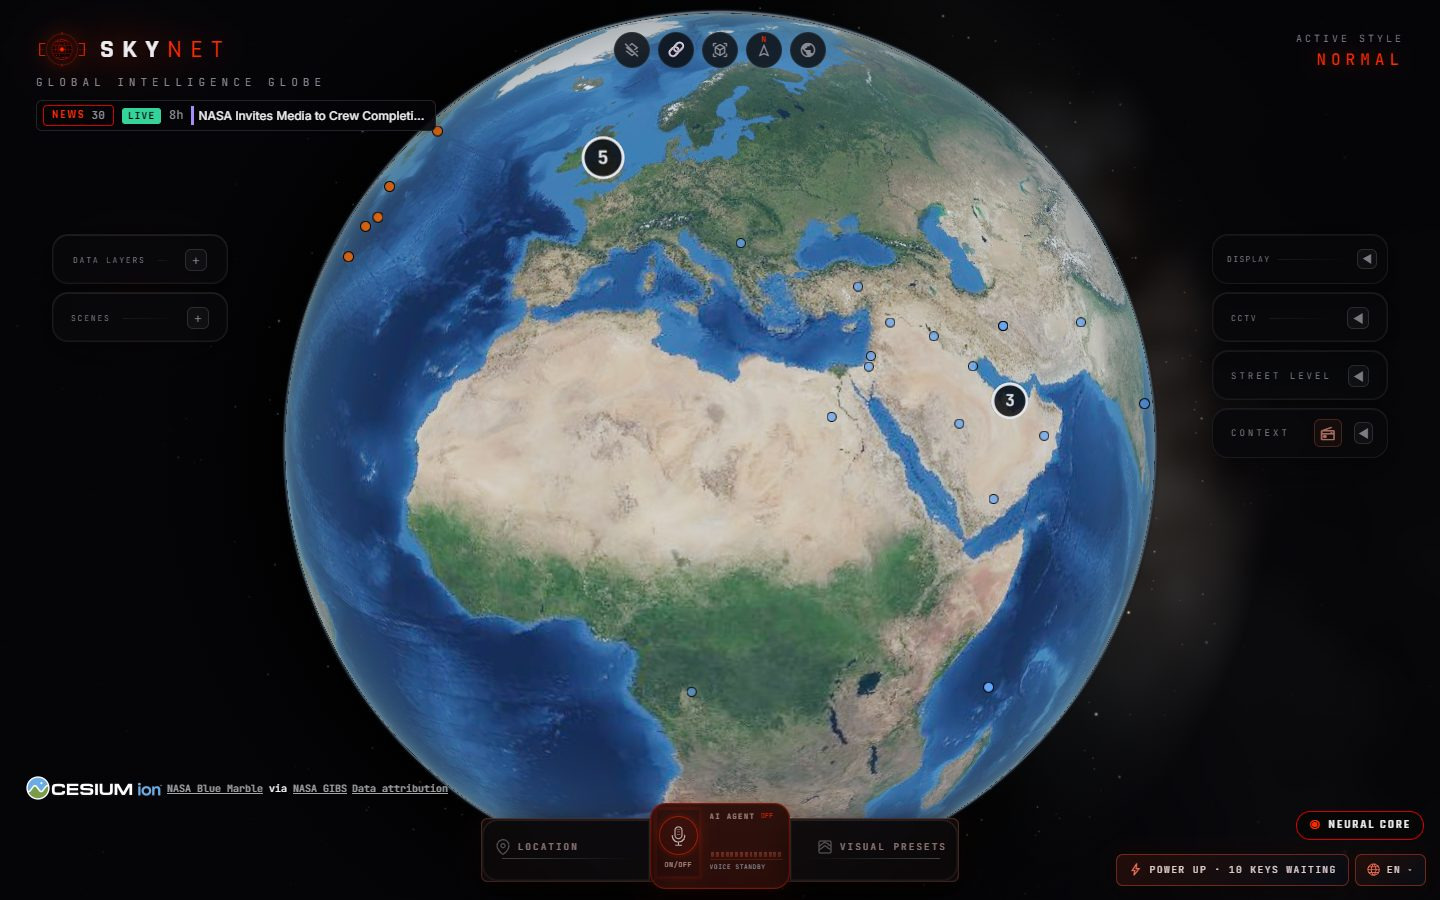
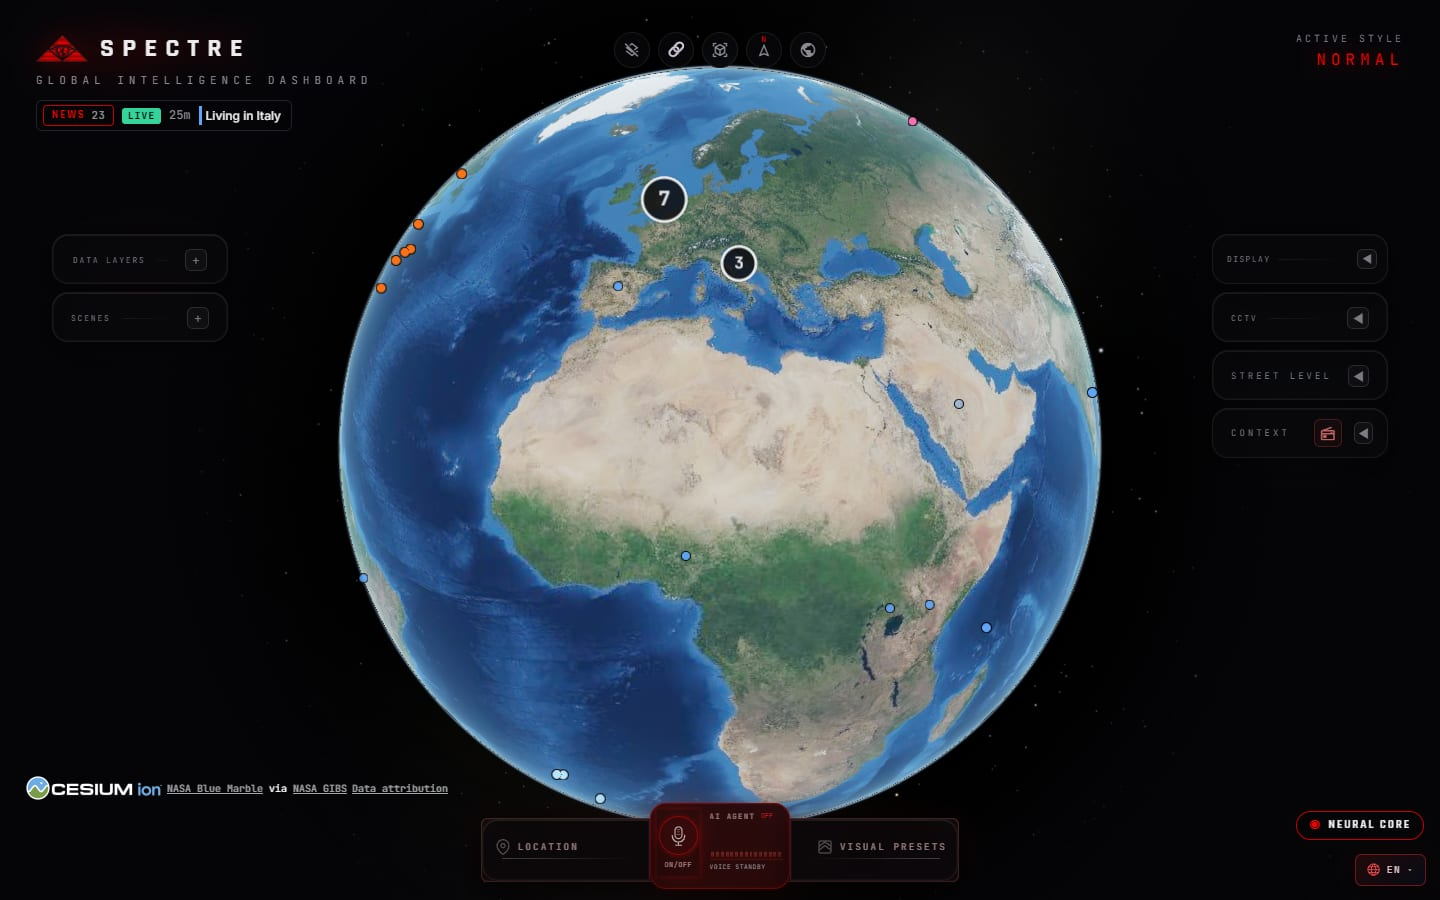
docs: SPECTRE README, branding guide, boot architecture, new screenshots
- README: title "SPECTRE — Global Intelligence Dashboard", the emblem
  header, a rename note (SKYNET until 2026-10-28; old settings and script
  still work for one release), the boot overlay, and new screenshots taken
  from the production build with the real intel service: the globe with News
  and Natural Events on, the boot overlay, and the Neural Core panel (Ollama
  was stopped, and the caption says so). No prediction claims in prose.
- docs/BRANDING.md: asset inventory, dark-background-only rule for the
  luminance-keyed PNGs, minimum sizes (lockup 160 px, mark 24 px), colour
  tokens with measured contrast, glitch and status rules, and a provenance
  section left as a TODO for Murali (creator/tool, date, licence: nothing
  asserted).
- docs/ARCHITECTURE.md: the boot overlay data flow and code map rows.
- .env.example: SKYNET_* names are read for one more release.
- CLAUDE.md: brand assets, the red-on-raised rule, qa:spectre-boot.
- docs/images: the v0.1.0 screenshots docs/VERIFY.md cites are back under
  their recorded names (skynet-*.jpg, byte-identical to the tag); the R1
  rename had moved them.

diff --git a/docs/BRANDING.md b/docs/BRANDING.md
@@ -1,0 +1,100 @@
+# SPECTRE branding
+
+SPECTRE's emblem is a striped red pyramid with an eye whose iris is a globe,
+over the wordmark **SPECTRE**, the subtitle **GLOBAL INTELLIGENCE DASHBOARD**
+and the sub-line **REAL-TIME • ANALYZE • PREDICT • GLOBAL INSIGHTS**.
+
+Every product name, tagline and brand colour the code uses comes from
+[`src/branding.js`](../src/branding.js); this page covers the image files and
+how to use them.
+
+## Files
+
+Served from `public/brand/` (at `/brand/`) unless noted.
+
+| File | Size | Alpha | Used for |
+|---|---|---|---|
+| `spectre-mark.png` | 1065×542 | yes | Boot overlay: the emblem layer; source of the maskable icon |
+| `spectre-wordmark.png` | 1363×146 | yes | Boot overlay: the wordmark layer |
+| `spectre-subtitle.png` | 1355×54 | yes | Boot overlay: the subtitle layer |
+| `spectre-tagline.png` | 1167×38 | yes | Boot overlay: the sub-line layer |
+| `lockup-layout.json` | — | — | Where the four layers sit in the lockup (copied into `src/boot/spectre-boot.js`) |
+| `spectre-mark-512.png` | 512×261 | yes | Old loading screen (`hud-loading.html`) |
+| `spectre-mark-256.png` | 256×130 | yes | Header mark (`scene-chrome.html`), `BRANDING.logo` |
+| `spectre-mark-128.png` | 128×65 | yes | Neural Core panel header |
+| `spectre-logo-alpha.png` | 1363×825 | yes | Full lockup for other dark-background uses (not used by the app) |
+| `favicon.ico`, `favicon-16/32/48.png` | 16–48 | yes | Browser tab: a tight crop of the globe-eye that stays legible when tiny |
+| `apple-touch-icon-180.png` | 180×180 | yes | iOS home screen |
+| `icon-192.png`, `icon-512.png` | 192, 512 | yes | Install manifest |
+| `icon-512-maskable.png` | 512×512 | yes | Install manifest, maskable: generated by `node scripts/generate-icons.mjs` |
+| `spectre-social-1280x640.png` | 1280×640 | no | Open Graph / Twitter card, and the GitHub social preview |
+| `docs/brand/spectre-logo-source.png` | 1672×941 | no | Master, on black. Docs and README only; never in the shipped app (a test checks) |
+
+The four boot layers are tight crops of one lockup, positioned by
+`lockup-layout.json` (aspect 1.65212).
+
+## Rules
+
+- **Dark backgrounds only.** The transparent PNGs are luminance-keyed: they are
+  correct on black or near-black and wrong on anything light. On a light
+  surface (a light-mode GitHub page, a slide, print), use
+  `docs/brand/spectre-logo-source.png`, or the social image, which carry their
+  own black.
+- **Don't recolour, stretch, crop, rotate or outline** the emblem, and don't add
+  drop shadows beyond the faint red glow the header already has.
+- **Minimum sizes:** the full lockup at least 160 px wide; the mark at least
+  24 px wide. Below that, use the favicon crop, which was drawn for small
+  sizes.
+- **Words are text.** The tagline and sub-line in the UI are real, translated
+  text (`BRANDING.tagline`, `BRANDING.subline`), for accessibility and
+  scaling. Only the boot overlay uses the raster subtitle and sub-line, as part
+  of the lockup.
+- **The sub-line is a slogan, not a feature list.** In prose, describe only
+  what exists: satellite pass prediction (SGP4 from orbital elements,
+  `src/data/satellitePass.js`) and forecasts that come from a named source
+  (cyclone tracks, weather). Don't claim SPECTRE predicts events.
+- **The glitch is decoration on logo layers only.** It never touches data,
+  charts, chat text or tables. Alerts keep their own icon, label and pulse and
+  never reuse the glitch classes (`.sp-part`, `.sp-ghost`, `.is-glitch`): red
+  already means both brand and danger.
+- **Status is never colour alone.** Boot rows pair a glyph with a word:
+  `●` ONLINE, `◐` DEGRADED, `✕` OFFLINE / NO RESPONSE.
+
+## Colours
+
+Measured from the emblem; tokens in [`src/theme/spectre.css`](../src/theme/spectre.css)
+and `BRANDING.colors`.
+
+| Token | Value | Use | Contrast on `#000` |
+|---|---|---|---|
+| `--sp-red` | `#F80000` | text, icons, active states | 4.99:1 (AA); 4.67:1 on `--sp-surface` |
+| `--sp-red-on-raised` | `#FF1A1A` | red text on `--sp-surface-2` and on red tints (active controls, the voice dock), where `#F80000` drops to 4.44–4.46:1 | 5.41:1; 4.80:1 on those surfaces |
+| `--sp-red-deep` | `#C80000` | fills and borders only, never small text | 3.46:1; white on it is 6.08:1 |
+| emblem grey | `#C8C8C8` | the wordmark's grey (raster only) | — |
+
+Before the emblem, the reds were `#FF2800` and `#D40000`. To go back, restore
+those two values in `BRANDING.colors` and the three lines marked in
+`src/theme/spectre.css`, then run `node scripts/generate-spectre-recolor.mjs`.
+
+## Boot overlay and brand glitch
+
+[`src/boot/`](../src/boot/) and [`src/theme/spectre-boot.css`](../src/theme/spectre-boot.css):
+the lockup assembles on black with four status rows fed by real checks, then
+removes itself. Settings: Display ▸ Boot animation (Full / Short / Off) and
+Brand glitch (On / Off); `?boot=off|short|full` overrides; embedded views and
+`prefers-reduced-motion` get no motion. Smoke test: `npm run qa:spectre-boot`.
+
+## Provenance
+
+> **TODO (Murali):** fill this in before publishing. Nothing below may be
+> guessed.
+>
+> - Creator, and the tool or service used to make the emblem:
+> - Date created:
+> - Licence or terms for the emblem and its files (and whether others may
+>   reuse them):
+> - Any third-party elements in the artwork (fonts, the world map in the
+>   globe) and their licences:
+
+The MIT licence in [LICENSE](../LICENSE) covers SPECTRE's code. Until this
+section is filled in, it does not say anything about the emblem.

diff --git a/README.md b/README.md
@@ -1,14 +1,16 @@
 <p align="center"><img src="docs/brand/spectre-logo-source.png" alt="SPECTRE: Global Intelligence Dashboard" width="640" /></p>
 
-# SPECTRE
+# SPECTRE — Global Intelligence Dashboard
 
-**A local-first global intelligence globe.** Live flights, satellites, weather, cameras and public data on a 3D Earth, with real-time news intelligence and a local AI analyst, the Neural Core, all running on your own machine with no paid keys required.
+**A local-first global intelligence dashboard.** Live flights, satellites, weather, cameras and public data on a 3D Earth, with real-time news intelligence and a local AI analyst, the Neural Core, all running on your own machine with no paid keys required.
 
 ![SPECTRE on the keyless NASA Blue Marble basemap, with the news and natural-events layers on](docs/images/spectre-globe.jpg)
 
-SPECTRE is a fork of [God's Eye View](https://github.com/bilawalsidhu/gods-eye-view) (MIT, © Bilawal Sidhu), rebranded in a Vanta-black and Ferrari-red theme. It keeps God's Eye View's layers and tools, except where their data could not be redistributed. [NOTICE.md](NOTICE.md) lists every change from upstream.
+SPECTRE is a fork of [God's Eye View](https://github.com/bilawalsidhu/gods-eye-view) (MIT, © Bilawal Sidhu), rebranded with the SPECTRE emblem in black and red. It keeps God's Eye View's layers and tools, except where their data could not be redistributed. [NOTICE.md](NOTICE.md) lists every change from upstream.
 
 > **Status: v0.1.0** (tagged locally as `skynet-v0.1.0`, under the product's earlier name). All six phases of [docs/ADR-001.md](docs/ADR-001.md) are done. What was verified and what was not is in [docs/VERIFY.md](docs/VERIFY.md).
+
+> **Renamed.** SPECTRE was called SKYNET until 2026-10-28. Settings named `SKYNET_*` and `scripts\skynet.ps1` still work for one release, with a warning, and the intel database and tool logs are copied to their new names on the first start. [CHANGELOG.md](CHANGELOG.md) lists every change.
 
 ## What it does
 
@@ -21,7 +23,10 @@ SPECTRE is a fork of [God's Eye View](https://github.com/bilawalsidhu/gods-eye-v
   - **What it refuses.** It will not locate or profile people.
   - **When Ollama is not running,** the panel says so.
 
-  ![The Neural Core answering a news question with numbered sources](docs/images/spectre-neural-core.jpg)
+  ![The Neural Core panel with an earlier answer and its numbered sources; Ollama is stopped here, and the panel says so](docs/images/spectre-neural-core.jpg)
+- **Boot overlay.** While the app loads, the emblem shows four status rows from real checks: the globe's first frame, the layer catalog, the intel service and the Neural Core. Any key or click skips it; Display ▸ Boot animation makes it short or turns it off.
+
+  ![The boot overlay: emblem, wordmark and four status rows](docs/images/spectre-boot.jpg)
 - **Local voice (optional).** Hold the mic in the Neural Core panel and ask. Speech is recognised and spoken on your computer (faster-whisper and Kokoro); the answer is read aloud in English as it arrives.
 
 ## Quick start (Windows 11, PowerShell)
@@ -150,6 +155,7 @@ It is not for navigation, emergency response or any other safety-critical use. D
 - [docs/VERIFY.md](docs/VERIFY.md): manual verification steps and their results.
 - [docs/API.md](docs/API.md): the intel service API.
 - [docs/ADR-001.md](docs/ADR-001.md): the design and its decisions.
+- [docs/BRANDING.md](docs/BRANDING.md): the SPECTRE emblem, its files and how to use them.
 - [CONTRIBUTING.md](CONTRIBUTING.md): how to change SPECTRE.
 - [DATA_SOURCES.md](DATA_SOURCES.md): data sources and their terms.
 - Measurements:

diff --git a/docs/ARCHITECTURE.md b/docs/ARCHITECTURE.md
@@ -79,6 +79,12 @@ Tests on both sides fail when the shared file is stale.
 3. **Speak.** The streamed answer is split into sentences. Each goes to `POST /api/intel/voice/speak` (Kokoro-82M on the CPU), with at most two requests out at once. The WAV is played with Web Audio.
 4. **Load.** The models load once, in the background, when the service starts. They are fetched only by `scripts\spectre.ps1 -Voice`, checked against pinned SHA-256 hashes.
 
+### Boot overlay
+
+1. **First paint.** `index.html` paints black with a cover; `src/boot/entry.js` runs before `src/main.js` and swaps the cover for the overlay. In a build, `build/spectreBootHtml.js` gives the entry its own small chunk ahead of a deferred `Cesium.js`, so the overlay is up in about 140 ms instead of after Cesium.
+2. **Rows.** The entry probes `GET /api/intel/health` and `GET /api/intel/chat/status`; the application reports the globe (the viewer's first frame and the map stack's basemap) and the layer catalog through `src/boot/appSignals.js`. Each probe gives up after 3 s and a late reply still updates its row.
+3. **Exit.** Once every row has a state (or 9 s have passed) and the minimum hold is over, the overlay fades and is removed from the DOM. It never delays the application, which starts behind it.
+
 ## Trust boundaries
 
 | Boundary | Guard |
@@ -125,6 +131,7 @@ SPECTRE keeps its own code apart so that `git merge upstream/main` stays tractab
 | News and Natural Events layers | `src/layers/news/`, `src/layers/eonet/` |
 | Neural Core panel | `src/neuralCore/` |
 | Tool registry | `src/tools/registry.js`, `shared/tools/` |
-| Branding and theme | `src/branding.js`, `src/theme/` |
+| Branding and theme | `src/branding.js`, `src/theme/`, `public/brand/` ([BRANDING.md](BRANDING.md)) |
+| Boot overlay and brand glitch | `src/boot/`, `src/theme/spectre-boot.css`, `build/spectreBootHtml.js` |
 | Basemap default | `src/maps/catalog.js` (`KEYLESS_DEFAULT_STACK_ID`), `src/maps/imagery.js` |
-| Scripts | `scripts/spectre.ps1`, `scripts/spectre-doctor.mjs`, `scripts/qa-spectre-news.mjs`, `scripts/qa-neural-core.mjs`, `scripts/bench-local-voice.mjs` |
+| Scripts | `scripts/spectre.ps1`, `scripts/spectre-doctor.mjs`, `scripts/qa-spectre-news.mjs`, `scripts/qa-neural-core.mjs`, `scripts/qa-spectre-boot.mjs`, `scripts/bench-local-voice.mjs` |

diff --git a/CLAUDE.md b/CLAUDE.md
@@ -51,7 +51,12 @@ code.
 - **Theme:** `src/theme/spectre.css` (tokens, loaded last from `index.html`) and
   `src/theme/spectre-recolor.css`, generated by
   `node scripts/generate-spectre-recolor.mjs`. Re-run it after any change under
-  `src/ui/styles/`; a test fails when it is stale. Keep text WCAG AA.
+  `src/ui/styles/`; a test fails when it is stale. Keep text WCAG AA: red
+  text on `--sp-surface-2` or a red tint uses `--sp-red-on-raised`.
+- **Brand assets** live in `public/brand/` (the opaque master only in
+  `docs/brand/`); rules and provenance are in `docs/BRANDING.md`. The boot
+  overlay and header glitch are `src/boot/` + `src/theme/spectre-boot.css`;
+  the glitch is for logo layers only, never alerts or data.
 - **UI text** goes through `t()` / `msg()` with es and ru translations
   (`npm run i18n`).
 - **Commit flow:** conventional commits; before committing code run
@@ -86,7 +91,8 @@ Anything else failing is a regression.
 no intel service or network) is the News, Natural Events and share-link
 smoke test and should pass in full. `npm run qa:neural-core` (same setup,
 mocked chat endpoints) is the Neural Core panel smoke test and should pass
-in full.
+in full. `npm run qa:spectre-boot` (same setup, mocked intel endpoints) is
+the boot overlay and brand glitch smoke test and should pass in full.
 
 The Neural Core eval needs Ollama and network for web search:
 `uv run --project intel python intel/scripts/neural_core_eval.py --model <tag>`.
